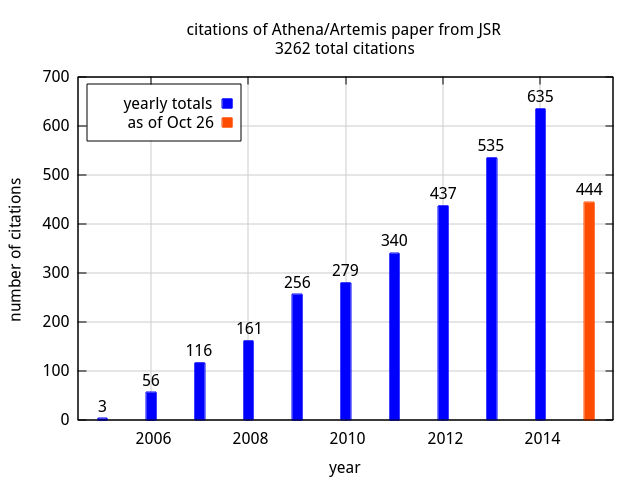
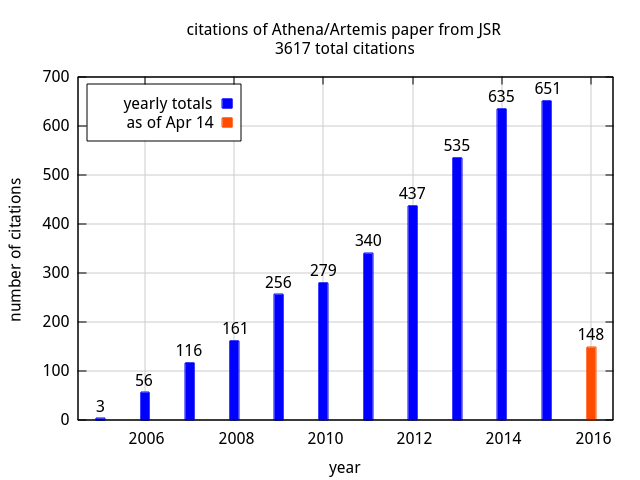
update dois and citations

diff --git a/cv.tex b/cv.tex
@@ -133,9 +133,9 @@
   training materials.  Several times each year, I teach XAS training
   courses at synchrotrons and other institutions around the
   world. \newline{} The publication introducing the software has over
-  3300 citations as of December, 2015, making it the highest cited
+  3600 citations as of April, 2016, making it the highest cited
   article in the Journal of Synchrotron Radiation.  The $g$-index of
-  this paper is 64.}
+  this paper is 68.}
 
 \cvline{Inform XAS analysis using local structure theory}%
 {Local structural theories -- molecular dynamics, Monte Carlo,
@@ -348,7 +348,7 @@
   \textsc{artemis}: data analysis for X-ray absorption spectroscopy
   using \textsc{ifeffit}, \emph{Journal of Synchrotron Radiation}
   \textbf{12}, 537--541 (2005)
-  \href{http://dx.doi.org/10.1107/S0909049505012719}
+  \href{https://doi.org/10.1107/S0909049505012719}
   {\color{color2}\homepagesymbol~doi:10.1107/S0909049505012719}}
 
 \cvline{\textsc{feff8}}%
@@ -356,7 +356,7 @@
   Real-space multiple-scattering calculation and interpretation of
   X-ray-absorption near-edge structure, \emph{Physical Review B}
   \textbf{58}, 7565--7576 (1998).
-  \href{http://dx.doi.org/10.1103/PhysRevB.58.7565}
+  \href{https://doi.org/10.1103/PhysRevB.58.7565}
   {\color{color2}\homepagesymbol~doi:10.1103/PhysRevB.58.7565}}
 
 \cvline{XAS Review}%
